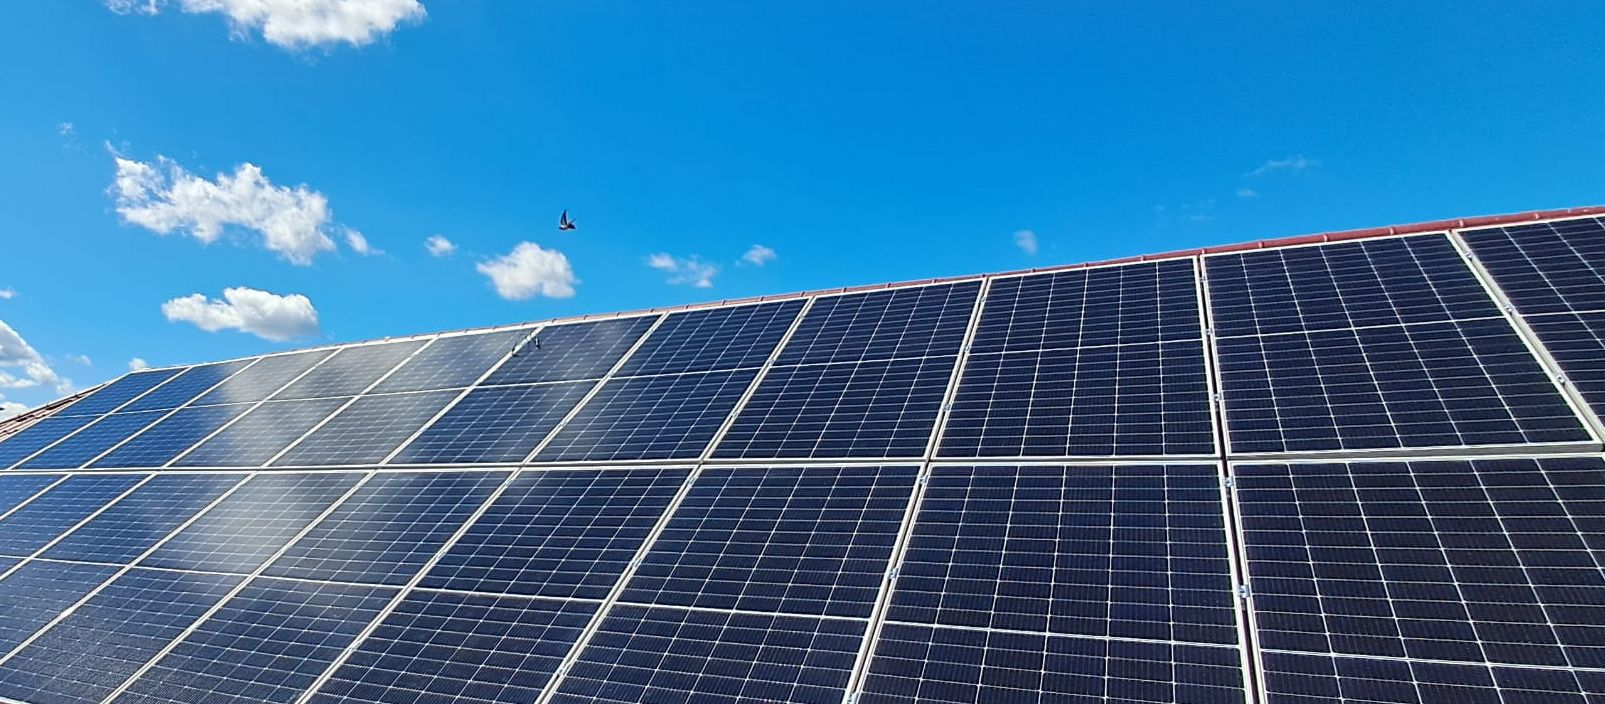
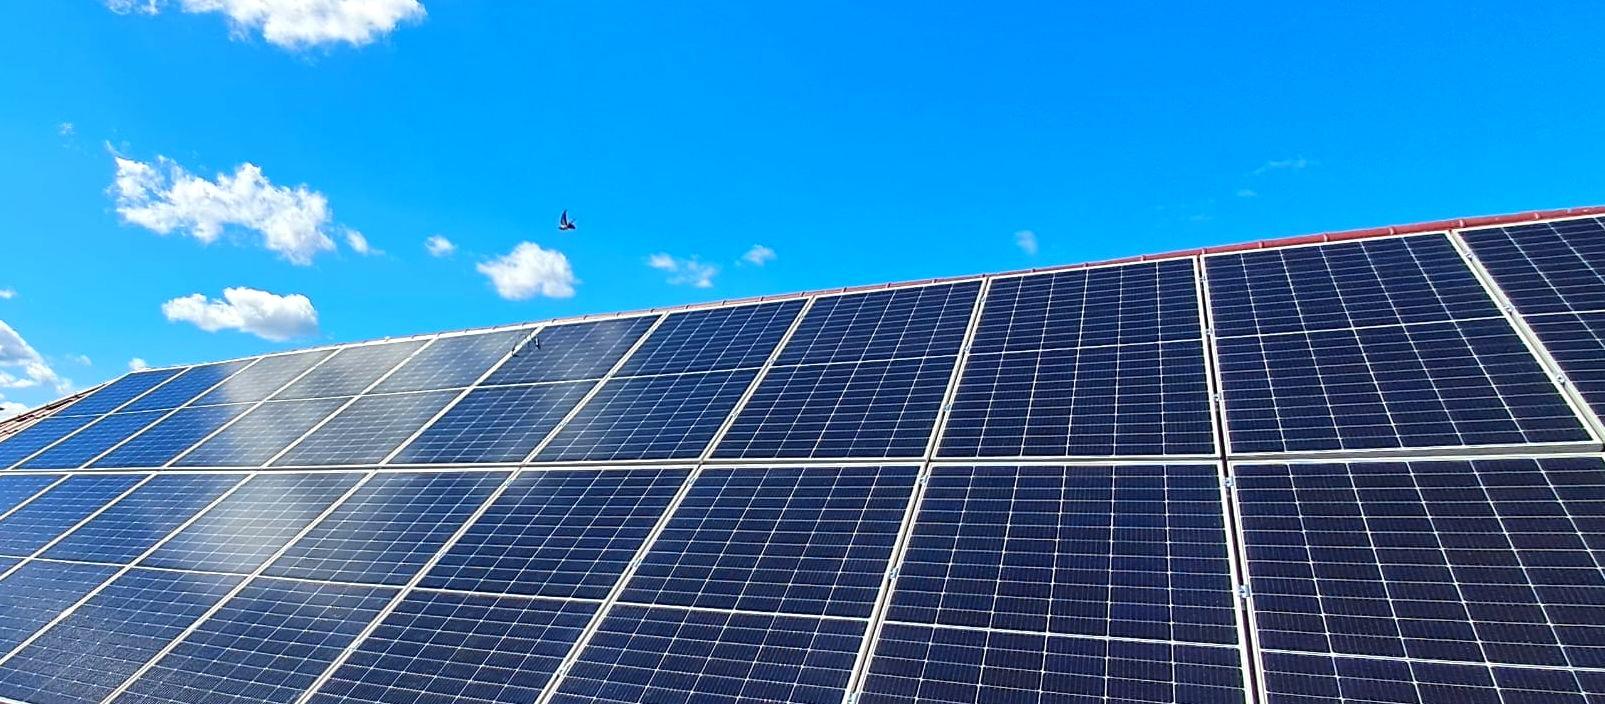
Hero: faster drift, PV photo panning, more vivid hero photos
Speeds up the homepage hero pan and adds a matching vertical drift
for the PV page's hero photo (its near-square aspect leaves slack
top-to-bottom under cover instead of side-to-side). Also boosts
saturation/brightness/contrast on both hero photos for a more vivid,
luminous look; originals are kept alongside as *-original.jpg backups.

diff --git a/css/styles.css b/css/styles.css
@@ -357,7 +357,7 @@ section.surface { background: var(--surface); }
      clouds) drifting, without cropping the panels out of frame. Linear
      timing keeps the speed constant through the "alternate" turnaround —
      ease-in-out would decelerate to a stop at each end before reversing. */
-  animation: heroPhotoDrift 20s linear infinite alternate;
+  animation: heroPhotoDrift 11s linear infinite alternate;
 }
 @keyframes heroPhotoDrift {
   from { background-position: center, center, 36% bottom; }
@@ -375,6 +375,14 @@ section.surface { background: var(--surface); }
     linear-gradient(to top, rgba(4, 26, 43, 0.85) 0%, rgba(4, 26, 43, 0) 42%),
     url("../assets/homepage-2.jpg");
   background-position: center, center, center;
+  /* This photo is nearly square, unlike the wide homepage shot, so "cover"
+     scales it to match the box's width and leaves slack top-to-bottom
+     instead of side-to-side — drift vertically instead of horizontally. */
+  animation: heroPhotoDriftPV 11s linear infinite alternate;
+}
+@keyframes heroPhotoDriftPV {
+  from { background-position: center, center, center 28%; }
+  to   { background-position: center, center, center 72%; }
 }
 
 /* Copy runs the full width of the container so the headline reads across
